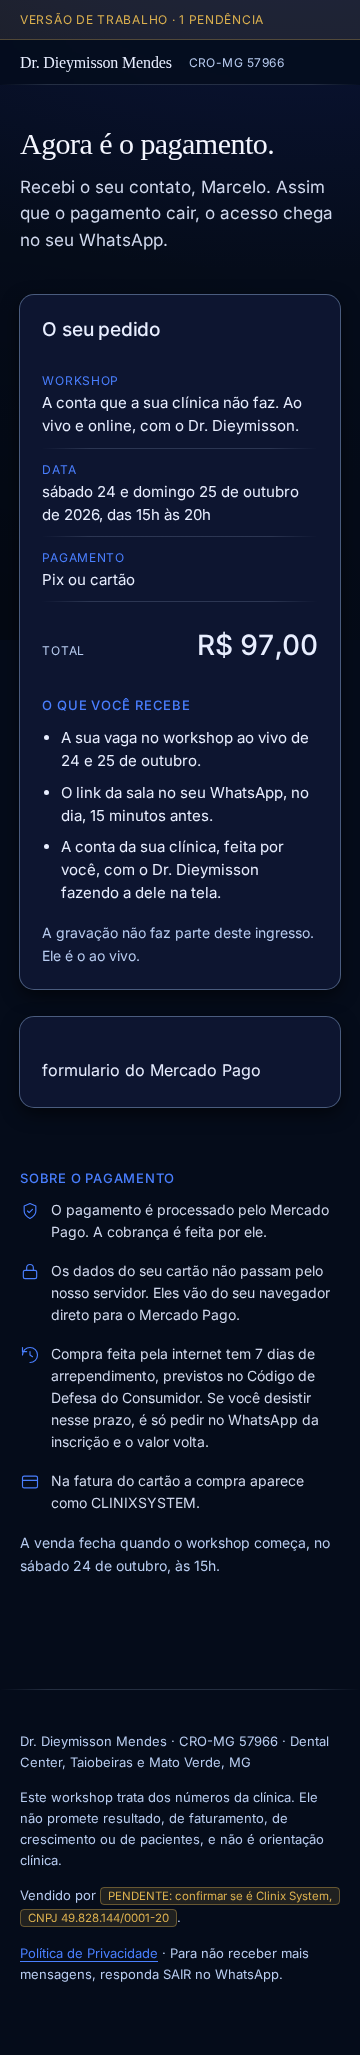
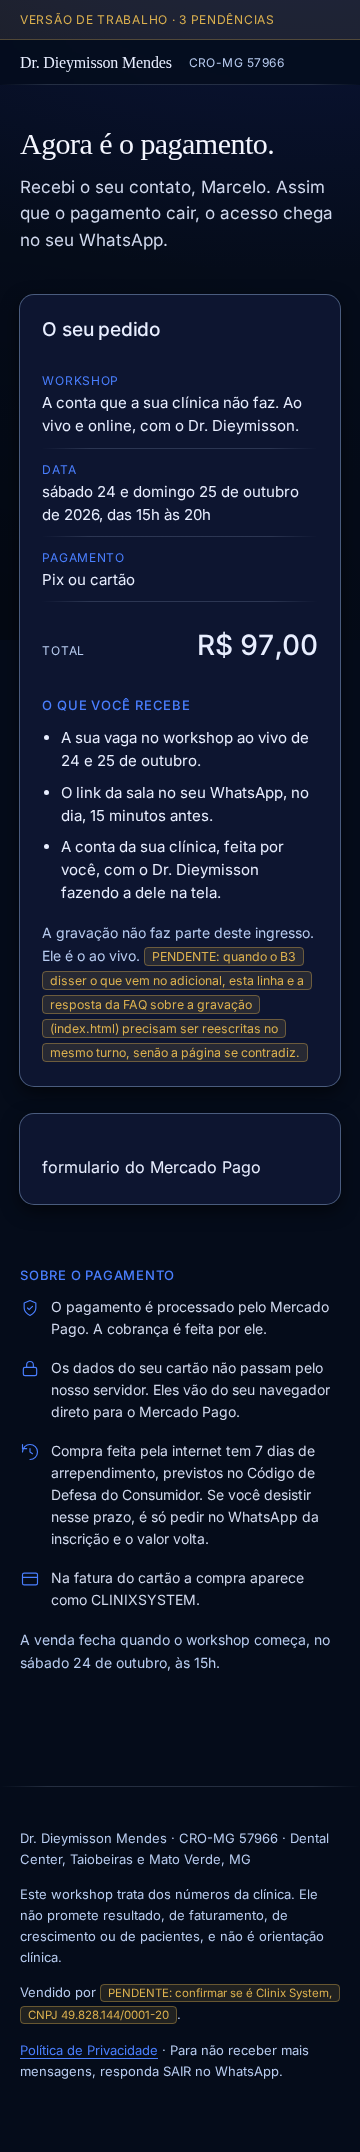
checkout: a caixa do adicional, com o preco vindo do servidor
O Jean pediu a caixa do order bump na pagina de pagamento. Ela entra com rotulo e
preco vindos da SESSAO, nunca escritos no HTML: e a mesma trava que ja vale para o
preco do workshop, e vale igual para o adicional.

⛔ O que vem DENTRO nao esta escrito, de proposito. Existem duas listas diferentes
no cofre para a "Estrutura Completa", e escolher uma seria decidir o B3 no lugar do
Bruno. A caixa entra com tres marcas de pendencia, e a regua do repo exige zero
marcas para publicar: a pagina trava sozinha ate o B3 fechar.

O que a prova mede agora (240 ✅ · 0 🔴):
- a caixa so aparece se o servidor mandar nome E preco (config pela metade nao vira
  oferta: oferecer o que nao se sabe cobrar e o caminho curto para cobrar errado);
- marcar soma no total e REMONTA o Brick com o novo valor. O Brick nao aceita trocar
  o `amount` a quente, e o duble agora COBRA o `unmount` antes de remontar: ele
  aceitava `create` duas vezes calado, entao uma remontagem passaria 100% verde aqui
  e quebraria no navegador do primeiro cliente;
- a pessoa e AVISADA que o cartao digitado se perde, em vez de a tela mudar sozinha;
- o POST leva o BOOLEANO e nenhuma chave de dinheiro;
- depois do Pix gerado a caixa TRAVA e diz por que, em vez de sumir (sumir esconde do
  cliente o que ele escolheu e pagou);
- a faixa de pendencias da checkout.html, que nunca era conferida, agora e: era ela
  que barrava a publicacao de uma pagina que cobra dinheiro.

diff --git a/assets/checkout.js b/assets/checkout.js
@@ -49,6 +49,11 @@
   var linhaVigia = el('pix-vigia'), caixaPago = el('pago'), caixaAcoes = el('pix-acoes');
 
   var sessao = null, token = null, controlador = null, emailPix = '', pronto = false;
+  /* O adicional (order bump). `bumpMarcado` é a ÚNICA coisa que a página decide sobre
+     dinheiro, e mesmo assim ela decide só o SE, nunca o QUANTO: o preço vem da sessão e
+     quem cobra é o servidor. `bumpTravado` fecha a caixa quando não dá mais para mudar
+     de ideia sem bagunçar uma cobrança que já saiu. */
+  var bumpMarcado = false, bumpTravado = false;
 
   /* ---------- Textos. Frase curta, "você", sem culpar quem está pagando ---------- */
   var MSG = {
@@ -189,6 +194,19 @@
       .then(function () { clearTimeout(t); });
   }
 
+  /* O total da tela. UMA conta, no mesmo formato da que o servidor faz: base + adicional.
+     ⛔ Os dois números saem da sessão; nenhum deles está escrito no HTML. */
+  function totalAtual() {
+    var base = Number(sessao && sessao.valor);
+    var extra = (bumpMarcado && sessao && sessao.bump) ? Number(sessao.bump.valor) : 0;
+    return base + (isFinite(extra) ? extra : 0);
+  }
+
+  function pintaTotal() {
+    var caixaValor = el('valor');
+    if (caixaValor) caixaValor.textContent = moeda(totalAtual());
+  }
+
   function abreSessao(j) {
     sessao = j;
     var valor = Number(j.valor);
@@ -196,8 +214,8 @@
 
     /* O valor da tela é SEMPRE o que veio do servidor. Não existe número de
        preço escrito no HTML desta página. */
-    var caixaValor = el('valor');
-    if (caixaValor) caixaValor.textContent = moeda(valor);
+    montaAdicional(j.bump);
+    pintaTotal();
 
     if (j.teste === true) { var f = el('faixa-teste'); if (f) f.hidden = false; }
 
@@ -207,7 +225,56 @@
       saudacao.textContent = 'Recebi o seu contato, ' + primeiro + '. Assim que o pagamento cair, o acesso chega no seu WhatsApp.';
     }
 
-    montaBrick(valor);
+    montaBrick(totalAtual());
+  }
+
+  /* ---------- 2b. O adicional (order bump) ---------- */
+
+  /* Só existe caixa se o servidor mandou nome E preço. Config pela metade não vira oferta:
+     oferecer o que não se sabe cobrar é o caminho curto para cobrar errado. */
+  function montaAdicional(bump) {
+    var caixa = el('adicional'), campo = el('bump');
+    if (!caixa || !campo) return;
+    if (!bump || !(Number(bump.valor) > 0) || !String(bump.titulo || '').trim()) return;
+
+    var tit = el('bump-titulo'), preco = el('bump-preco');
+    if (tit) tit.textContent = String(bump.titulo).trim();
+    if (preco) preco.textContent = 'Mais ' + moeda(Number(bump.valor)) + ' no mesmo pagamento.';
+    caixa.hidden = false;
+
+    campo.addEventListener('change', function () {
+      if (bumpTravado) { campo.checked = bumpMarcado; return; }
+      bumpMarcado = !!campo.checked;
+      pintaTotal();
+      remontaPorCausaDoAdicional();
+    });
+  }
+
+  /* 🔑 O Brick NÃO aceita trocar o `amount` depois de montado: para mudar o total é
+     preciso desmontar e montar de novo. O preço disso é real e a pessoa precisa
+     saber: o que ela já tinha digitado no cartão se perde, e o foco cai no corpo da página. Por
+     isso o aviso é anunciado (role=status) em vez de a tela mudar em silêncio. */
+  function remontaPorCausaDoAdicional() {
+    var aviso = el('bump-aviso');
+    if (aviso) aviso.textContent = 'Atualizando as formas de pagamento com o novo total. Se você já tinha começado a digitar o cartão, digite de novo.';
+    var caixaEstado = el('estado');
+    if (caixaEstado) { caixaEstado.hidden = false; caixaEstado.textContent = 'Atualizando o pagamento.'; }
+    pronto = false;
+    desmonta();
+    var alvo = el('brick');
+    if (alvo) alvo.innerHTML = '';
+    montaBrick(totalAtual());
+  }
+
+  /* Depois que uma cobrança saiu (Pix gerado, pagamento em voo, pagamento aprovado) não dá
+     mais para mudar de ideia sem bagunçar o que já foi cobrado. A caixa trava e diz por quê,
+     em vez de sumir: sumir esconde do cliente o que ele escolheu e pagou. */
+  function travaAdicional(motivo) {
+    bumpTravado = true;
+    var campo = el('bump'), caixa = el('adicional'), aviso = el('bump-aviso');
+    if (campo) campo.disabled = true;
+    if (caixa) caixa.classList.add('adicional--travado');
+    if (aviso) aviso.textContent = motivo || '';
   }
 
   /* ---------- 3. O Brick ---------- */
@@ -344,7 +411,10 @@
       issuer_id: '',
       email: '',
       cpf: '',
-      device_id: idDoAparelho()
+      device_id: idDoAparelho(),
+      /* 🔑 Só o booleano viaja. O servidor é que sabe quanto o adicional custa, e é ele
+         que soma. Se um dia esta linha virar um número, a trava do preço cai junto. */
+      bump: bumpMarcado
     };
     for (var k in extra) { if (Object.prototype.hasOwnProperty.call(extra, k)) p[k] = extra[k]; }
     return p;
@@ -398,6 +468,7 @@
     }
     if (estadoPag === 'in_process' || estadoPag === 'pending') {
       desmonta();
+      travaAdicional('O pagamento já foi enviado com este total.');
       mostraErro(null, 'O seu pagamento está em análise pelo Mercado Pago. Assim que ele confirmar, o acesso chega no seu WhatsApp. Você não precisa pagar de novo.', true);
       return true;
     }
@@ -408,6 +479,9 @@
   /* ---------- 6. Pix na nossa página ---------- */
 
   function mostraPix(pix, idPagamento) {
+    /* O código do Pix já foi gerado pelo valor que estava marcado. Mudar a caixa agora faria
+       a tela dizer um total e o código cobrar outro, que é o pior dos dois mundos. */
+    travaAdicional('O código do Pix já foi gerado com este total. Para mudar o adicional, gere outro código.');
     desmonta();
     limpaErro();
     if (caixaCpf) caixaCpf.hidden = true;
@@ -546,6 +620,7 @@
 
   function pixCaiu() {
     limpaErro();
+    travaAdicional('');
     if (caixaPix) caixaPix.hidden = true;
     if (caixaAcoes) caixaAcoes.hidden = true;
     vigiaTexto('Pagamento aprovado. O acesso chega no seu WhatsApp.');

diff --git a/checkout.html b/checkout.html
@@ -67,6 +67,26 @@
           </div>
         </dl>
 
+        <!-- ── O adicional (order bump). ──────────────────────────────────────────
+             🔑 Só aparece se o SERVIDOR mandar nome E preço: config pela metade não vira
+                caixa na tela. Melhor não oferecer do que oferecer o que não se sabe cobrar.
+             ⛔ NENHUM número de dinheiro escrito aqui. O preço chega pela sessão, como o
+                do workshop: é a mesma trava, e ela vale igual para o adicional.
+             ⚠ O que VEM DENTRO não está escrito porque escolher isso é decidir o B3, que
+                é do Bruno e está aberto desde 24/08. A marca de pendência é o que impede
+                esta página de ser publicada antes disso. -->
+        <div class="adicional" id="adicional" hidden>
+          <label class="adicional-caixa" for="bump">
+            <input type="checkbox" id="bump" name="bump" aria-describedby="bump-nota">
+            <span class="adicional-texto">
+              <strong class="adicional-titulo" id="bump-titulo"></strong>
+              <span class="adicional-preco" id="bump-preco"></span>
+              <span class="miudo" id="bump-nota"><mark class="pendente">PENDENTE: o que vem na Estrutura Completa, e o preço dela, são o B3 do Bruno, aberto desde 24/08. Enquanto isso, o valor da tela é provisório.</mark></span>
+            </span>
+          </label>
+          <p class="adicional-aviso miudo" id="bump-aviso" role="status" aria-live="polite"></p>
+        </div>
+
         <p class="resumo-total" id="total">
           <span class="resumo-total-rotulo">Total</span>
           <strong class="resumo-valor" id="valor">
@@ -80,7 +100,7 @@
           <li>O link da sala no seu WhatsApp, no dia, 15 minutos antes.</li>
           <li>A conta da sua clínica, feita por você, com o Dr. Dieymisson fazendo a dele na tela.</li>
         </ul>
-        <p class="miudo">A gravação não faz parte deste ingresso. Ele é o ao vivo.</p>
+        <p class="miudo">A gravação não faz parte deste ingresso. Ele é o ao vivo. <mark class="pendente">PENDENTE: quando o B3 disser o que vem no adicional, esta linha e a resposta da FAQ sobre a gravação (index.html) precisam ser reescritas no mesmo turno, senão a página se contradiz.</mark></p>
       </aside>
 
       <!-- ── Pagamento. O Brick do Mercado Pago é montado dentro de #brick. ── -->

diff --git a/assets/checkout.css b/assets/checkout.css
@@ -238,3 +238,40 @@
 .passos-lista li:last-child { margin-bottom: 0; }
 .passo-t { margin: 0 0 var(--space-2); font-size: 17px; line-height: 25px; color: var(--color-text); }
 .passo-b { margin: 0; font-size: 15px; line-height: 23px; color: var(--color-neutral-300); max-width: var(--measure); }
+
+/* ── O adicional (order bump) ──────────────────────────────────────────────────
+   Entra no resumo, ANTES do total, porque é ele que muda o total.
+   🔑 44 px de alvo de toque: é o que a prova obrigatória mede antes do push.
+   ⛔ Nada aqui mira classe do Brick do Mercado Pago. */
+.adicional[hidden] { display: none; }
+.adicional {
+  margin: 16px 0 0;
+  padding: 14px;
+  border: 1px solid var(--color-neutral-700, #3a3d4f);
+  border-radius: var(--radius-md, 8px);
+  background: var(--color-bg, #161826);
+}
+.adicional-caixa {
+  display: flex;
+  gap: 12px;
+  align-items: flex-start;
+  cursor: pointer;
+  /* o alvo inteiro tem 44 px de altura mínima, não só a caixinha */
+  min-height: 44px;
+}
+.adicional-caixa input[type="checkbox"] {
+  flex: 0 0 auto;
+  width: 22px;
+  height: 22px;
+  /* centra a caixa na primeira linha de texto sem encolher o alvo */
+  margin: 11px 0 11px 0;
+  accent-color: var(--color-accent, #9184d9);
+  cursor: pointer;
+}
+.adicional-texto { display: block; padding: 8px 0; }
+.adicional-titulo { display: block; font-size: 15px; line-height: 22px; color: var(--color-text, #e9e9ed); }
+.adicional-preco { display: block; font-size: 14px; line-height: 21px; color: var(--color-neutral-200, #d3d6e4); }
+.adicional-aviso:empty { display: none; }
+.adicional-aviso { margin: 10px 0 0; }
+.adicional-caixa input[type="checkbox"]:disabled { cursor: not-allowed; opacity: .5; }
+.adicional--travado .adicional-caixa { cursor: not-allowed; }

diff --git a/testes/medir_checkout.py b/testes/medir_checkout.py
@@ -87,6 +87,16 @@ window.MercadoPago = function (chave) {
       create: function (tipo, container, config) {
         return new Promise(function (resolve) {
           var alvo = document.getElementById(container);
+          /* 🔑 09/09: o dublê aceitava `create` duas vezes sem reclamar, então uma
+             remontagem passaria 100% verde aqui e quebraria no navegador do primeiro
+             cliente. Agora ele guarda o histórico e marca quando montaram por cima de
+             um Brick vivo (sem `unmount` no meio), que é o que o SDK de verdade não
+             perdoa. A asserção da remontagem lê isto. */
+          window.__montagens = (window.__montagens || 0) + 1;
+          window.__valores = (window.__valores || []);
+          window.__valores.push(config && config.initialization && config.initialization.amount);
+          if (window.__vivo === true) { window.__montouPorCima = true; }
+          window.__vivo = true;
           alvo.innerHTML = '<div class="brick-duble"><p>formulario do Mercado Pago</p></div>';
           window.__config = config;
           /* O Brick de verdade lê a promessa do onSubmit: resolvida = seguiu,
@@ -100,7 +110,7 @@ window.MercadoPago = function (chave) {
             return true;
           };
           window.__erro = function (e) { return config.callbacks.onError(e); };
-          var ctrl = { unmount: function () { alvo.innerHTML = ''; window.__desmontado = true; } };
+          var ctrl = { unmount: function () { alvo.innerHTML = ''; window.__desmontado = true; window.__vivo = false; } };
           window.paymentBrickController = ctrl;
           setTimeout(function () { config.callbacks.onReady(); }, 20);
           resolve(ctrl);
@@ -752,6 +762,88 @@ def main():
         pg.screenshot(path=os.path.join(AQUI, "capturas", "obrigado-390x844.png"), full_page=True)
         c.fecha()
         ctx.close()
+
+        # ── 12.1 A faixa de pendências da PÁGINA DE PAGAMENTO ────────────────
+        # 🔑 09/09: só a faixa da obrigado.html era conferida. A da checkout.html, que é
+        #    quem barra a publicação de uma página que cobra dinheiro, nunca foi medida.
+        print("\n═══ checkout.html: a faixa conta as pendências")
+        ctx = nav.new_context(viewport={"width": 390, "height": 844})
+        c = Cenario(ctx, base)
+        pg = c.abre()
+        marcas = pg.eval_on_selector_all(".pendente", "e => e.length")
+        faixa = pg.inner_text(".faixa")
+        t("a faixa da página de pagamento bate com as marcas do DOM",
+          f"{marcas} pendência" in faixa.lower(), f"{marcas} × {faixa.strip()}")
+
+        # ── 12.2 O adicional (order bump) ────────────────────────────────────
+        print("\n═══ O adicional (order bump)")
+        t("a caixa NÃO aparece quando o servidor não oferece adicional",
+          pg.is_hidden("#adicional"), "sessão sem bump")
+        c.fecha(); ctx.close()
+
+        COM_BUMP = dict(SESSAO_OK, bump={"valor": 20, "titulo": "Estrutura Completa"})
+        ctx = nav.new_context(viewport={"width": 390, "height": 844})
+        c = Cenario(ctx, base, sessao=COM_BUMP)
+        pg = c.abre()
+        t("com adicional na sessão, a caixa aparece", pg.is_visible("#adicional"))
+        t("  o título vem do SERVIDOR", pg.inner_text("#bump-titulo").strip() == "Estrutura Completa",
+          pg.inner_text("#bump-titulo"))
+        t("  o preço também, e nenhum número de dinheiro está no HTML",
+          "20" in pg.inner_text("#bump-preco"), pg.inner_text("#bump-preco"))
+        t("  o total começa sem o adicional", "97" in pg.inner_text("#valor"), pg.inner_text("#valor"))
+        t("  o Brick nasceu com o total sem adicional",
+          pg.evaluate("() => window.__valores[0]") == 97, pg.evaluate("() => window.__valores[0]"))
+
+        # 🔑 O alvo de toque: a mesma régua de 44 px que a página inteira segue.
+        cx = pg.eval_on_selector(".adicional-caixa", "e => e.getBoundingClientRect().height")
+        t("  o alvo de toque tem 44 px ou mais", cx >= 44, f"{cx:.0f} px")
+
+        pg.check("#bump")
+        pg.wait_for_timeout(400)
+        t("marcando a caixa, o total passa a somar o adicional",
+          "117" in pg.inner_text("#valor"), pg.inner_text("#valor"))
+        t("  🔑 o Brick foi REMONTADO com o novo total",
+          pg.evaluate("() => window.__valores[window.__valores.length - 1]") == 117,
+          str(pg.evaluate("() => window.__valores")))
+        t("  🔑 e a remontagem desmontou o anterior (o SDK de verdade não perdoa montar por cima)",
+          pg.evaluate("() => window.__montouPorCima !== true"),
+          "montouPorCima=" + str(pg.evaluate("() => window.__montouPorCima")))
+        t("  a pessoa é AVISADA de que precisa digitar o cartão de novo",
+          "digite de novo" in pg.inner_text("#bump-aviso").lower(), pg.inner_text("#bump-aviso"))
+
+        pg.uncheck("#bump")
+        pg.wait_for_timeout(400)
+        t("desmarcando, o total volta", "97" in pg.inner_text("#valor"), pg.inner_text("#valor"))
+        pg.check("#bump")
+        pg.wait_for_timeout(400)
+
+        # ── o que sai no POST: o booleano, e NADA de dinheiro ────────────────
+        c.responde({"ok": True, "status": "approved", "payment_id": "77", "metodo": "credit_card"})
+        pg.evaluate("""() => window.__enviar({ formData: { token: 'tok', payment_method_id: 'master',
+          installments: 1, payer: { email: 'm@example.com', identification: { type: 'CPF', number: '39053344705' } } } })""")
+        pg.wait_for_timeout(700)
+        # `envios` guarda o corpo CRU do POST, não um dicionário: quem decodifica é quem lê.
+        enviado = json.loads(c.envios[-1]) if c.envios else {}
+        t("o pedido leva o booleano do adicional", enviado.get("bump") is True, json.dumps(enviado.get("bump")))
+        dinheiro = [k for k in enviado if re.search(r"valor|preco|price|amount|total", k, re.I)]
+        t("🔑 e NENHUMA chave de dinheiro (quem soma é o servidor)", not dinheiro, dinheiro or "nenhuma")
+        c.fecha(); ctx.close()
+
+        # ── depois que a cobrança sai, a caixa trava ─────────────────────────
+        ctx = nav.new_context(viewport={"width": 390, "height": 844})
+        c = Cenario(ctx, base, sessao=COM_BUMP)
+        pg = c.abre()
+        pg.check("#bump")
+        pg.wait_for_timeout(300)
+        gera_pix(c, pg, payment_id="881")
+        pg.wait_for_timeout(400)
+        t("com o Pix gerado, a caixa do adicional trava",
+          pg.eval_on_selector("#bump", "e => e.disabled") is True)
+        t("  e diz por quê, em vez de sumir",
+          "pix" in pg.inner_text("#bump-aviso").lower(), pg.inner_text("#bump-aviso"))
+        t("  a caixa continua na tela, mostrando o que a pessoa escolheu",
+          pg.is_visible("#adicional") and pg.eval_on_selector("#bump", "e => e.checked") is True)
+        c.fecha(); ctx.close()
 
         # ── 13. O Brick de verdade (só com --real-sdk) ───────────────────────
         if a.real_sdk:

diff --git a/rascunho/copy.md b/rascunho/copy.md
@@ -213,9 +213,10 @@ Vendido por [PENDENTE: confirmar se é Clinix System, CNPJ 49.828.144/0001-20].
 | 3 | **Horário** do workshop (a mensagem de véspera `wcp_vespera` também tem o horário em branco) | DETALHES | Dr. Dieymisson, com o Bruno |
 | 4 | **Duração** do workshop | DETALHES · FAQ "não tenho tempo" | Dr. Dieymisson, com o Bruno |
 | 5 | **A gravação:** a FAQ diz que ela não está nos R$ 97 e existe à parte só para quem comprou. Isso bate com o B7 ("a gravação está dentro do bump") e com a W6. Mas a **W13 libera a gravação por 48 horas para quem comprou e faltou**. Se a W13 ficar, a resposta da FAQ tem de dizer isso; se cair, fica como está. O preço e o nome da oferta à parte (B3, aberto desde 24/08) não entram na página até serem decididos | FAQ "e se eu não puder no dia?" | Bruno |
+| 5b | 🆕 **09/09: a caixa do adicional entrou na página de pagamento** (a máquina de cobrar existe e está provada). O que está na tela hoje é **só** o rótulo `Estrutura Completa` e o preço, os dois vindos da configuração do servidor, mais a frase *"Mais R$ X no mesmo pagamento."* — escrita pelo agente, **não** pela Lia, e sujeita a troca. ⛔ O que vem DENTRO do adicional não está escrito, de propósito: escolher a lista é decidir o B3. Quando o B3 fechar, muda-se no mesmo turno: esta linha, a caixa em `checkout.html`, a frase "A gravação não faz parte deste ingresso" e a resposta da FAQ sobre a gravação em `index.html` | CHECKOUT (adicional) · FAQ | Bruno decide o conteúdo · Lia revisa a frase |
 | 6 | **Razão social e CNPJ de quem vende** | RODAPÉ | Jean |
 | 7 | **Endereço da Política de Privacidade** desta página. A política do site da Clinix é da outra frente; esta precisa citar o workshop, o WhatsApp e o e-mail como uso dos dados | FORMULÁRIO (consentimento) · RODAPÉ | Jean |
 | 8 | **"O link da sala chega no seu WhatsApp no dia, 15 minutos antes"** depende da automação de show-up (W10, construção em 12/10) e da sala (Jean). Se o mecanismo mudar, a linha muda | DETALHES | Jean |
 | 9 | **"Me chama no direct do @dieymisson_"** no erro de funil indisponível só vale se alguém olhar o direct a partir de 18/09 | FORMULÁRIO (erro) | Dr. Dieymisson, com o Bruno |
 
-**O que ficou de fora de propósito:** mentoria, Clinix System e treinamento gravado (não são vendidos aqui); preço de procedimento (implante e manutenção estão no D1 e não entram: o CFO proíbe divulgar preço de serviço odontológico); preço do order bump (B3 aberto); o grupo da turma (depende do J11, 30/09, e não é argumento de compra para o Dr. Marcelo); depoimento de qualquer tipo; contagem, vagas e urgência.
+**O que ficou de fora de propósito:** mentoria, Clinix System e treinamento gravado (não são vendidos aqui); ⚠ **o CONTEÚDO do order bump continua fora** (o B3 segue aberto) — o que entrou em 09/09 foi a caixa com rótulo e preço provisórios, marcada como pendência, e é a marca que impede publicar; preço de procedimento (implante e manutenção estão no D1 e não entram: o CFO proíbe divulgar preço de serviço odontológico); preço do order bump (B3 aberto); o grupo da turma (depende do J11, 30/09, e não é argumento de compra para o Dr. Marcelo); depoimento de qualquer tipo; contagem, vagas e urgência.
